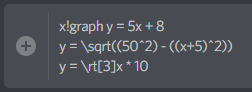
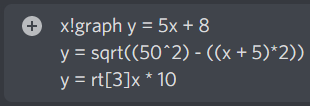
theoretically removed the need to use backslashes for functions in x!graph
Wiki images to be updated soon

Changed region(s): [[0.0556, 0.1304, 1.0, 0.8696], [0.0556, 0.1522, 0.1389, 0.3478]]

diff --git a/assets/misc/equ.js b/assets/misc/equ.js
@@ -10,63 +10,48 @@ exports.equ = (equation, x, a, equations) => {
 	for (let i = 0; i < terms.length; i++)
 		equation = equation.replace(terms[i][0], terms[i][1]);
 	let methods = [
-		// Sin, Cos, Tan, or Log of a number (went ahead and fit Log into here because it uses similar syntax)
-	  [ /\\(sin|cos|tan|log)(-?[0-9.]+|\(-?[0-9.]+\))/g,
+		// Trig functions, or natural log of a number
+	  [ /(?<!Math\.)(a?(?:sin|cos|tan|sec|csc|cot)h?|log)(-?[0-9.]+|\(-?[0-9.]+\))/g,
 		"Math.$1($2)" ],
 		// \sin(x) => Math.sin(x)
 
-		// Asin, Acos, or Atan of a number
-	  [ /\\a(sin|cos|tan)(-?[0-9.]+|\(-?[0-9.]+\))/g,
-		"Math.a$1($2)" ],
-		// \asin(x) => Math.asin(x)
-
-		// Sinh, Cosh, or Tanh of a number
-	  [ /\\(sin|cos|tan)h(-?[0-9.]+|\(-?[0-9.]+\))/g,
-		"Math.$1h($2)" ],
-		// \sinh(x) => Math.sinh(x)
-
-		// Asinh, Acosh, or Atanh of a number
-	  [ /\\a(sin|cos|tan)h(-?[0-9.]+|\(-?[0-9.]+\))/g,
-		"Math.a$1h($2)" ],
-		// \asinh(x) => Math.asinh(x)
-
-		// Root of a number, if the radicand is a real number and the radical is 2
-	  [ /(?:\\(?:sq|)rt|√)(-?[0-9.]+|\(-?[0-9.]+\))/g,
+		// Square root of a number
+	  [ /(?:(?:sq)?rt|√)(-?[0-9.]+|\(-?[0-9.]+\))/g,
 		"Math.sqrt($1)" ],
 		// \sqrt(x) => Math.sqrt(x)
 
 		// If the radicand is positive
-	  [ /(?:\\rt|√)\[(\(-?[0-9]+\)|-?[0-9]+)\](\([0-9.]+\)|[0-9.]+)/g,
+	  [ /(?<!sq)(?:rt|√)\[(\(-?[0-9]+\)|-?[0-9]+)\](\([0-9.]+\)|[0-9.]+)/g,
 		"Math.pow($2,(1/$1))" ],
 		// \rt[2](x) => Math.pow(x,(1/5))
 
 		// If the radicand is negative and the radical is odd
-	  [ /(?:\\rt|√)\[(\(\-?[0-9]*[13579]{1}\)|\-?[0-9]*[13579]{1})\](?:\(-([0-9.]+)\)|-([0-9.]+))/g,
+	  [ /(?<!sq)(?:rt|√)\[(\(\-?[0-9]*[13579]{1}\)|\-?[0-9]*[13579]{1})\](?:\(-([0-9.]+)\)|-([0-9.]+))/g,
 		"-Math.pow($2$3,(1/$1))" ],
 		// \rt[3](-x) => -Math.pow(-x,(1/3))
 
 		// If the radical is not an integer
-	  [ /(?:\\rt|√)\[(\(-?[0-9]+\.[0-9]+\)|-?[0-9]+\.[0-9]+)\](\(-?[0-9.]+\)|-?[0-9.]+)/g,
+	  [ /(?<!sq)(?:rt|√)\[(\(-?[0-9]+\.[0-9]+\)|-?[0-9]+\.[0-9]+)\](\(-?[0-9.]+\)|-?[0-9.]+)/g,
 		"Math.pow(Math.pow($2,Math.fraction($1,1)),(1/Math.fraction($1,0)))" ],
 		// \rt[1.5](-x) => Math.pow(Math.pow(-x,Math.fraction(1.5,1)),(1/Math.fraction(1.5,0)))
 
 		// If the radicand is negative and the radical is even
-	  [ /(?:\\rt|√)\[(?:\(-?[0-9]*[02468]{1}\)|-?[0-9]*[02468]{1})\](?:\(-[0-9.]+\)|-[0-9.]+)/g,
+	  [ /(?<!sq)(?:rt|√)\[(?:\(-?[0-9]*[02468]{1}\)|-?[0-9]*[02468]{1})\](?:\(-[0-9.]+\)|-[0-9.]+)/g,
 		"NaN" ],
 		// \rt[2](-x) => NaN
 
 		// A number number to the power of another number
-	  [ /(\(-?[0-9.]+\)|(?![0-9)]-)[0-9.]+)(?!sin|cos|tan)\^(?!-1)(\((-?)[0-9.]+\)|-?[0-9.]+)/g,
+	  [ /(?<!Math\.)(\(-?[0-9.]+\)|(?![0-9)]-)[0-9.]+)(?!sin|cos|tan)\^(?!-1)(\((-?)[0-9.]+\)|-?[0-9.]+)/g,
 		"Math.pow($1,$2)" ],
 		// x^7 => Math.pow(x,7)
 
 		// Summation function
-	  [ /(?:\\sum|∑)\[n=([0-9]+)\]\(([0-9]+)\)(-?[0-9.]+|\(-?[0-9.]+\))/g,
+	  [ /(?<!Math\.)(?:sum|∑)\[n=([0-9]+)\]\(([0-9]+)\)(-?[0-9.]+|\(-?[0-9.]+\))/g,
 		"Math.sum($1,$2,$3)" ],
 		// \sum[n=0](5)5 => Math.sum(0,5,5)
 
 		// Product function
-	  [ /(?:\\prod|∏)\[n=([0-9]+)\]\(([0-9]+)\)(-?[0-9.]+|\(-?[0-9.]+\))/g,
+	  [ /(?<!Math\.)(?:prod|∏)\[n=([0-9]+)\]\(([0-9]+)\)(-?[0-9.]+|\(-?[0-9.]+\))/g,
 		"Math.prod($1,$2,$3)" ],
 		// \prod[n=0](5)5 => Math.prod(0,5,5)
 
@@ -96,14 +81,19 @@ exports.equ = (equation, x, a, equations) => {
 		// (5)(7) => (5)(7)
 
 		// Minus a negative number
-	  [ /--([0-9.])/,
-		"+($1)" ],
+	  [ /(?<:[0-9.])--([0-9.])/,
+		"+$1" ],
 		// 5--7 => 5+7
 
 		// Minus a negative number in parentheses
-	  [ /-\(-([0-9.])\)/,
+	  [ /-\(-([0-9.]+)\)/,
 		"+($1)" ]
 		// 5-(-7) => 5+(7)
+
+		// Double negative in parentheses
+	  [	/\(--([0-9.]+)\)/,
+		"($1)" ]
+		// (--50) => (50)
 	];
 	let lastEquation;
 	do

diff --git a/Xyvy.js b/Xyvy.js
@@ -1,4 +1,4 @@
-var version = "3.0.4.10";
+var version = "3.0.5.0";
 exports.version = version;
 
 const Discord = require("discord.js"),
